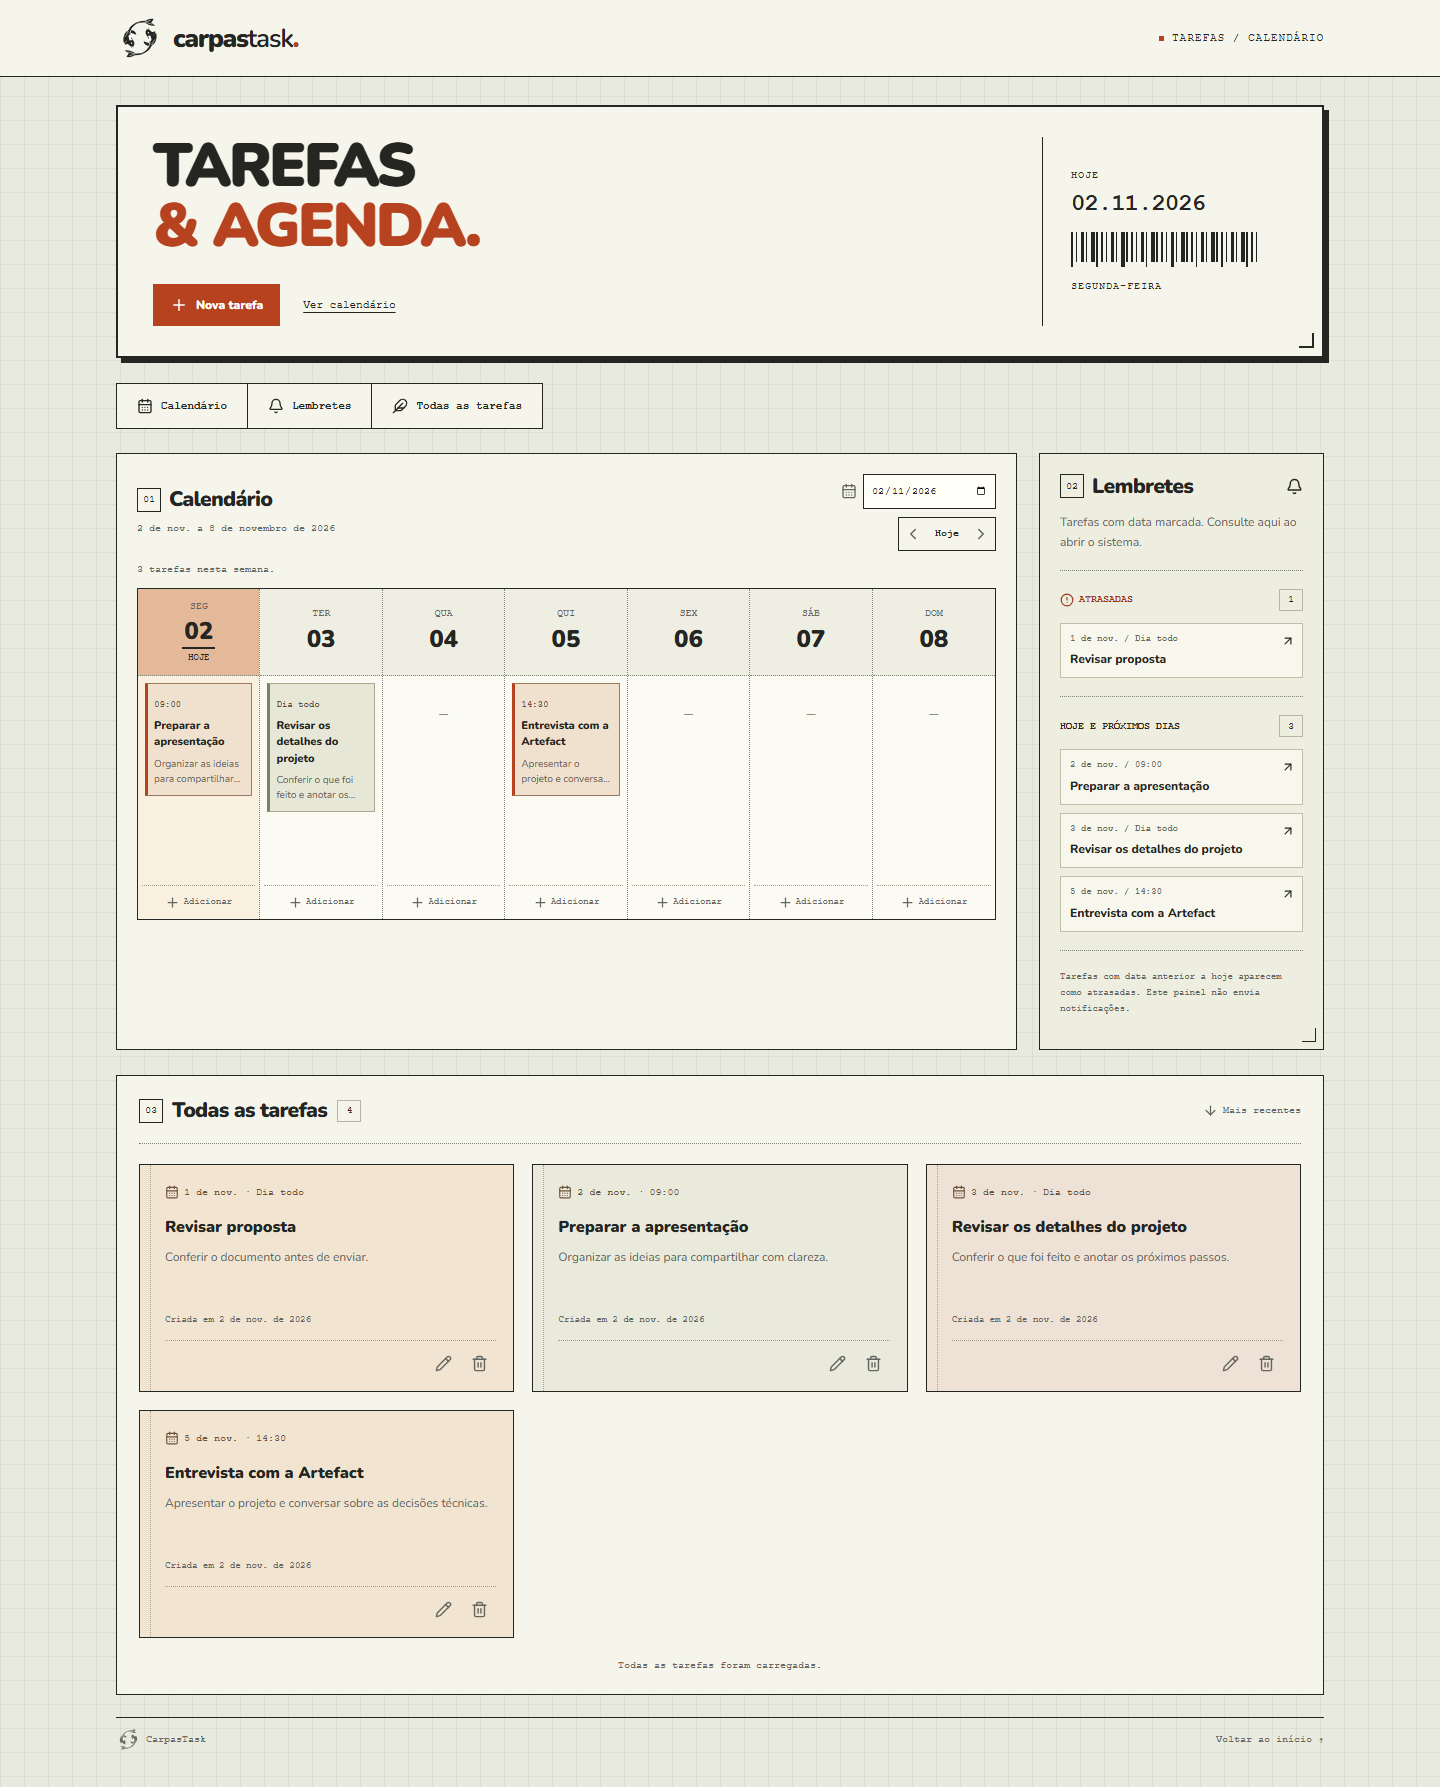
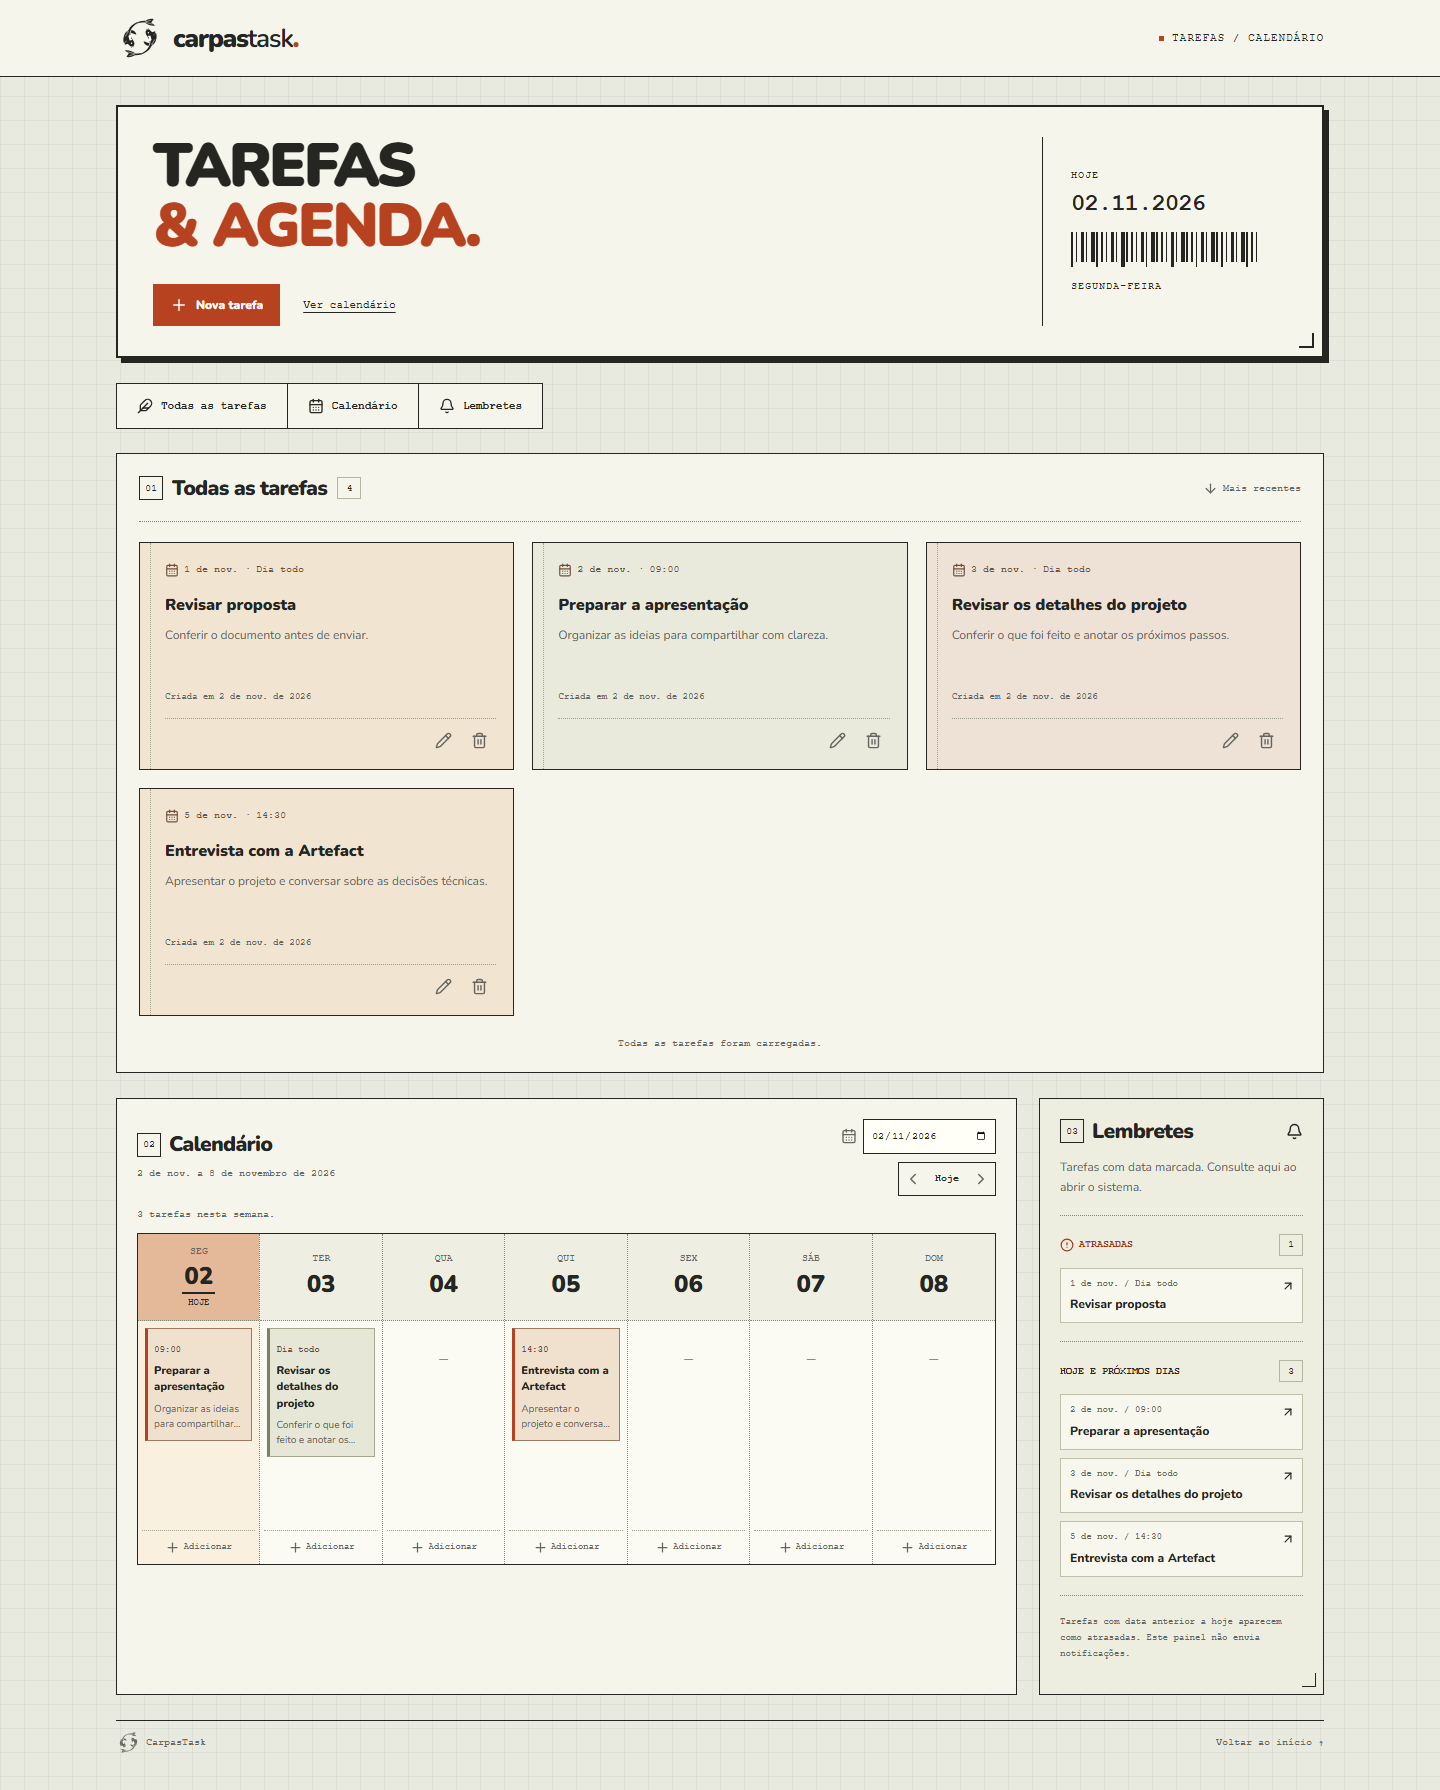
Place tasks before calendar and align section navigation

diff --git a/src/components/task-workspace.tsx b/src/components/task-workspace.tsx
@@ -133,6 +133,10 @@ export function TaskWorkspace({
         </div>
       </section>
       <nav className="workspace-nav" aria-label="Seções do planejamento">
+        <a href="#tarefas">
+          <Feather size={16} />
+          Todas as tarefas
+        </a>
         <a href="#agenda">
           <CalendarDays size={16} />
           Calendário
@@ -141,15 +145,7 @@ export function TaskWorkspace({
           <Bell size={16} />
           Lembretes
         </a>
-        <a href="#tarefas">
-          <Feather size={16} />
-          Todas as tarefas
-        </a>
       </nav>
-      <div className="planning-grid">
-        <TaskAgenda initialTasks={initialAgenda} today={today} />
-        <TaskReminderPanel initialData={initialReminders} today={today} />
-      </div>
       <section
         className="tasks-section"
         id="tarefas"
@@ -158,7 +154,7 @@ export function TaskWorkspace({
         <div className="list-heading">
           <div>
             <span className="section-number" aria-hidden="true">
-              03
+              01
             </span>
             <h2 id="tasks-heading">
               Todas as tarefas{" "}
@@ -280,6 +276,10 @@ export function TaskWorkspace({
           </>
         )}
       </section>
+      <div className="planning-grid">
+        <TaskAgenda initialTasks={initialAgenda} today={today} />
+        <TaskReminderPanel initialData={initialReminders} today={today} />
+      </div>
       <footer>
         <span className="footer-brand">
           <AppLogo />

diff --git a/src/app/globals.css b/src/app/globals.css
@@ -248,6 +248,7 @@ svg {
   color: var(--paper);
 }
 .planning-grid {
+  margin-top: 25px;
   display: grid;
   grid-template-columns: minmax(0, 1fr) 285px;
   gap: 22px;
@@ -1253,7 +1254,7 @@ dialog::backdrop {
     width: 100%;
     margin-bottom: 20px;
     display: grid;
-    grid-template-columns: 1fr 1fr 1.3fr;
+    grid-template-columns: 1.3fr 1fr 1fr;
   }
   .workspace-nav a {
     padding: 12px 5px;

diff --git a/src/components/task-agenda.tsx b/src/components/task-agenda.tsx
@@ -30,7 +30,7 @@ export function TaskAgenda({
       <div className="agenda-toolbar">
         <div>
           <span className="section-number" aria-hidden="true">
-            01
+            02
           </span>
           <h2 id="agenda-heading">Calendário</h2>
           <p className="section-description">

diff --git a/src/components/task-reminders.tsx b/src/components/task-reminders.tsx
@@ -22,7 +22,7 @@ export function TaskReminderPanel({
     >
       <div className="panel-heading">
         <span className="section-number" aria-hidden="true">
-          02
+          03
         </span>
         <h2 id="reminders-heading">Lembretes</h2>
         <Bell size={17} />

diff --git a/README.md b/README.md
@@ -113,7 +113,7 @@ IntersectionObserver preloads within 160px of the list end. Fetches are blocked 
 
 ## Design, accessibility and security
 
-The interface follows a printed-sheet visual direction: graph-paper background, light paper surfaces, dark rectangular borders, dotted dividers, bold headings and monospace annotations. Burnt orange marks primary actions, and the custom monochrome two-koi SVG remains the brand mark. Nunito is self-hosted (`@fontsource-variable/nunito`, SIL Open Font License); there are no requests to Google Fonts at runtime. No stock images are embedded. A weekly calendar and reminders panel share the desktop workspace; all task cards appear below. On phones the panels stack and calendar columns become day rows without page-level horizontal overflow. Labels are functional rather than promotional. The barcode-like header ornament is decorative and hidden from assistive technology.
+The interface follows a printed-sheet visual direction: graph-paper background, light paper surfaces, dark rectangular borders, dotted dividers, bold headings and monospace annotations. Burnt orange marks primary actions, and the custom monochrome two-koi SVG remains the brand mark. Nunito is self-hosted (`@fontsource-variable/nunito`, SIL Open Font License); there are no requests to Google Fonts at runtime. No stock images are embedded. All task cards appear first. The weekly calendar and reminders panel share the desktop workspace below them; section links and numbering follow the same order. On phones the panels stack and calendar columns become day rows without page-level horizontal overflow. Labels are functional rather than promotional. The barcode-like header ornament is decorative and hidden from assistive technology.
 
 ## On-page reminders
 
